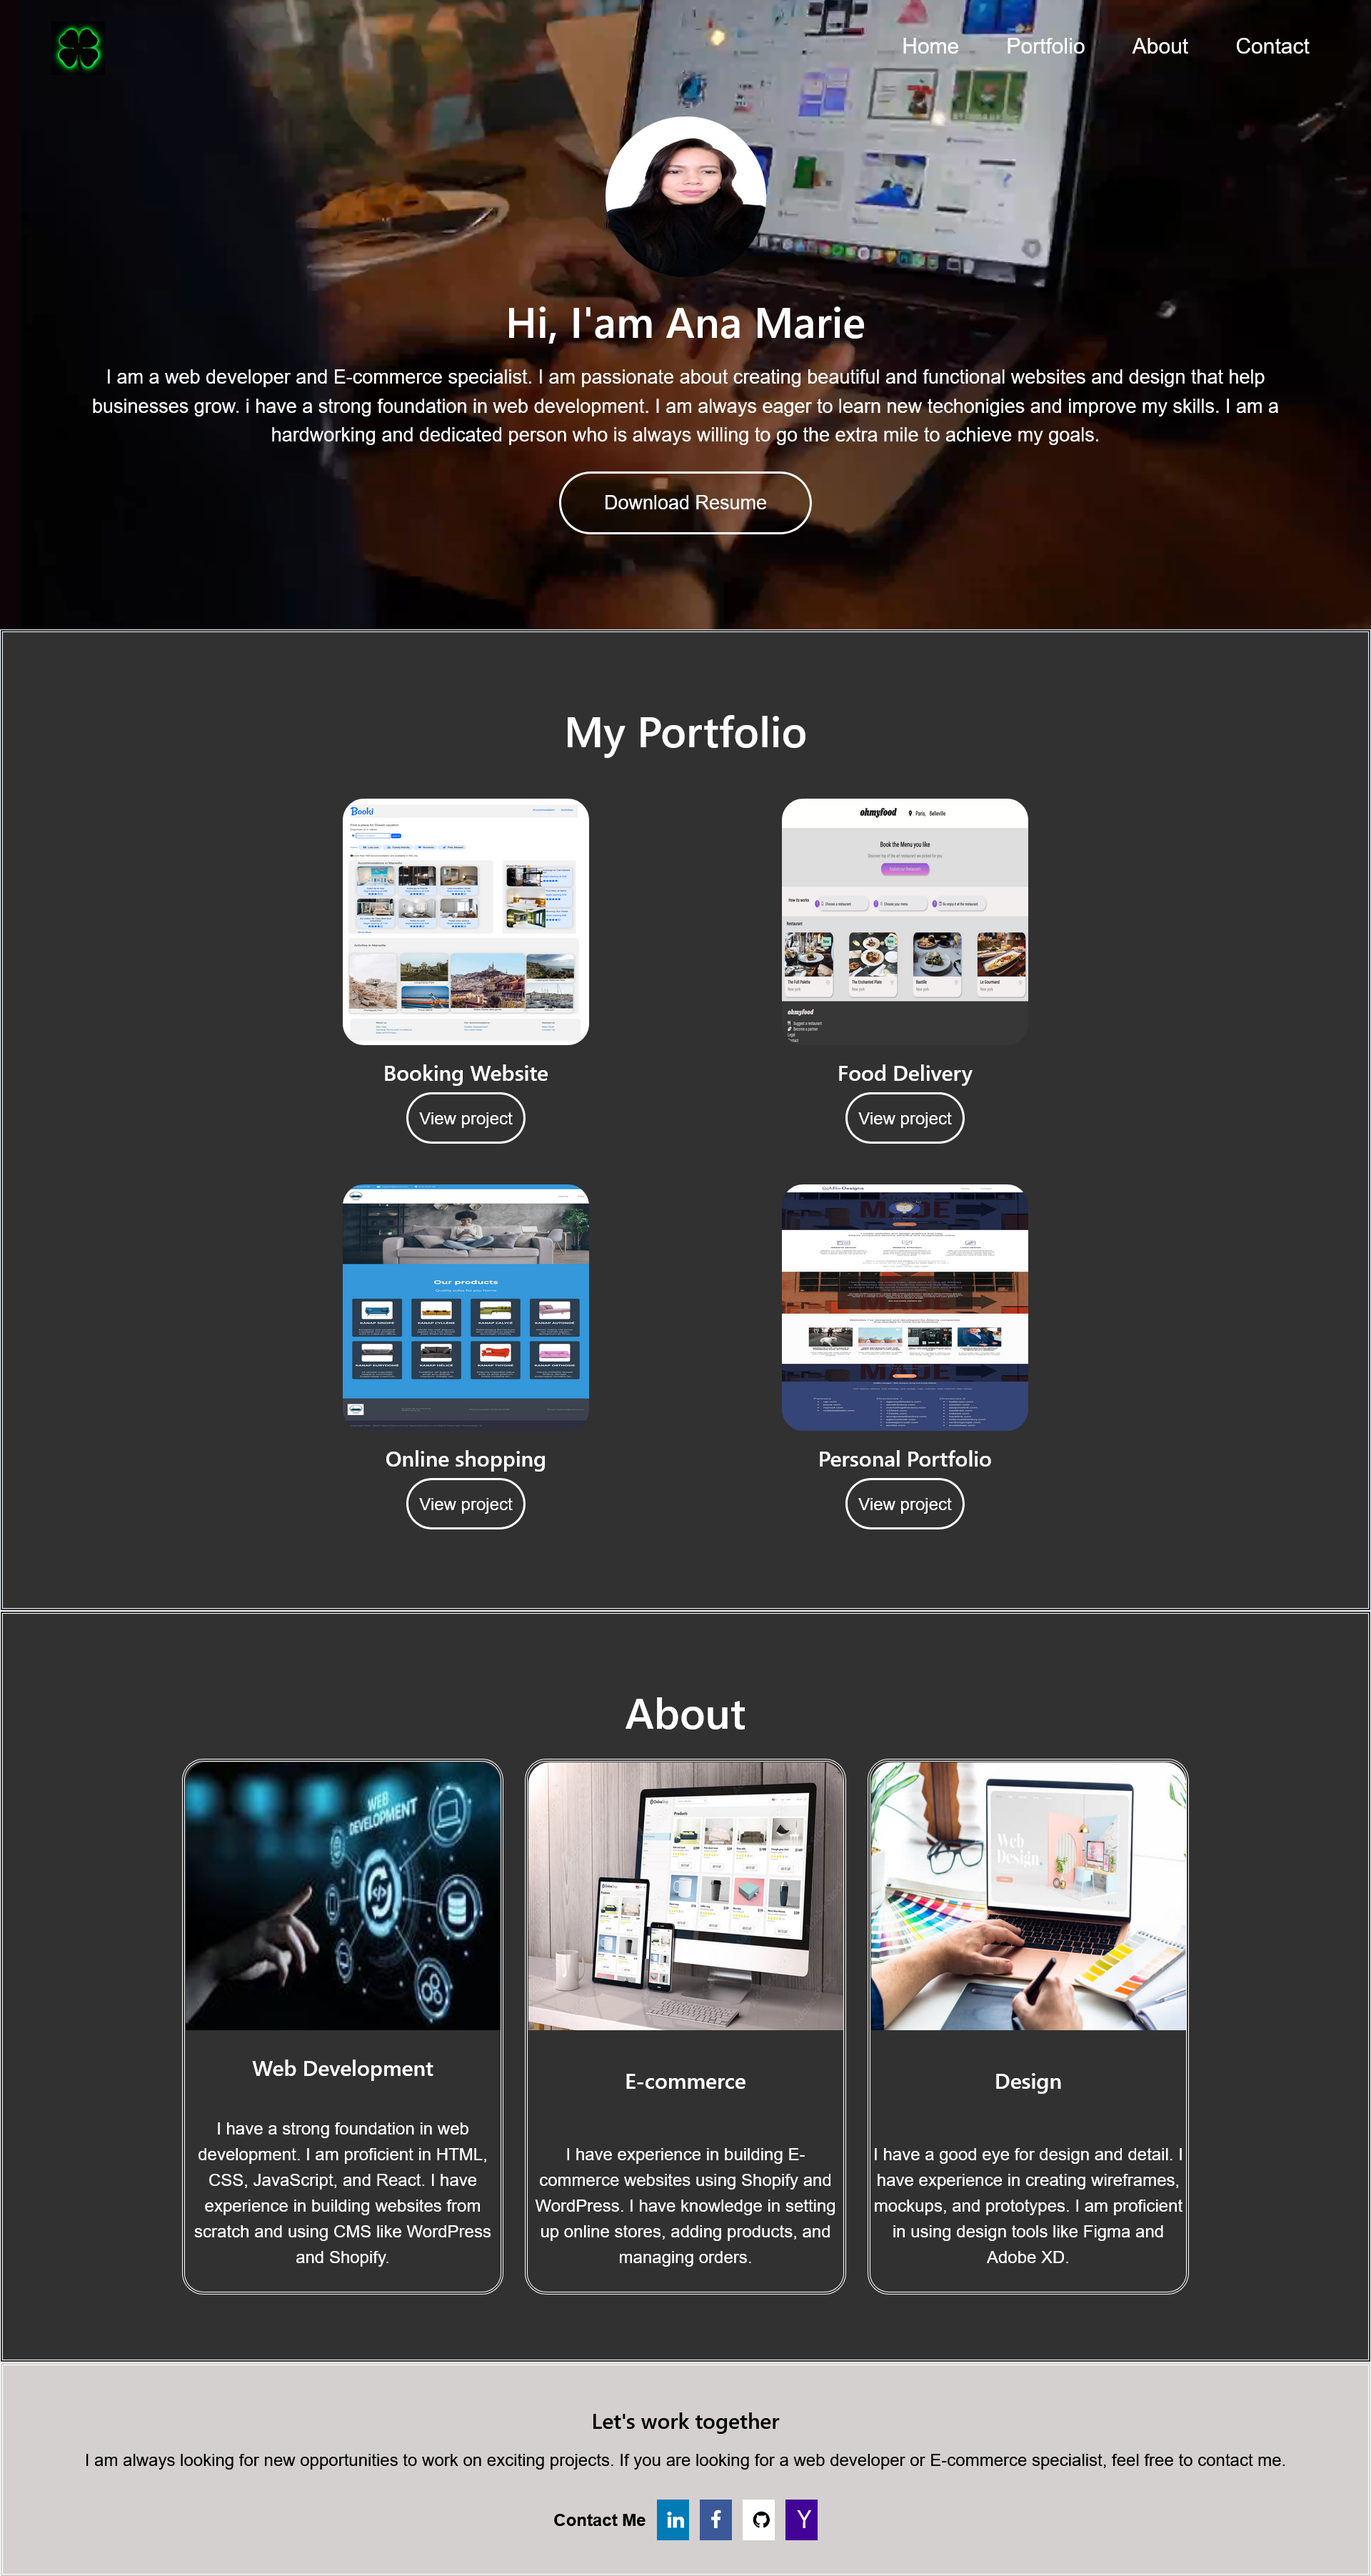
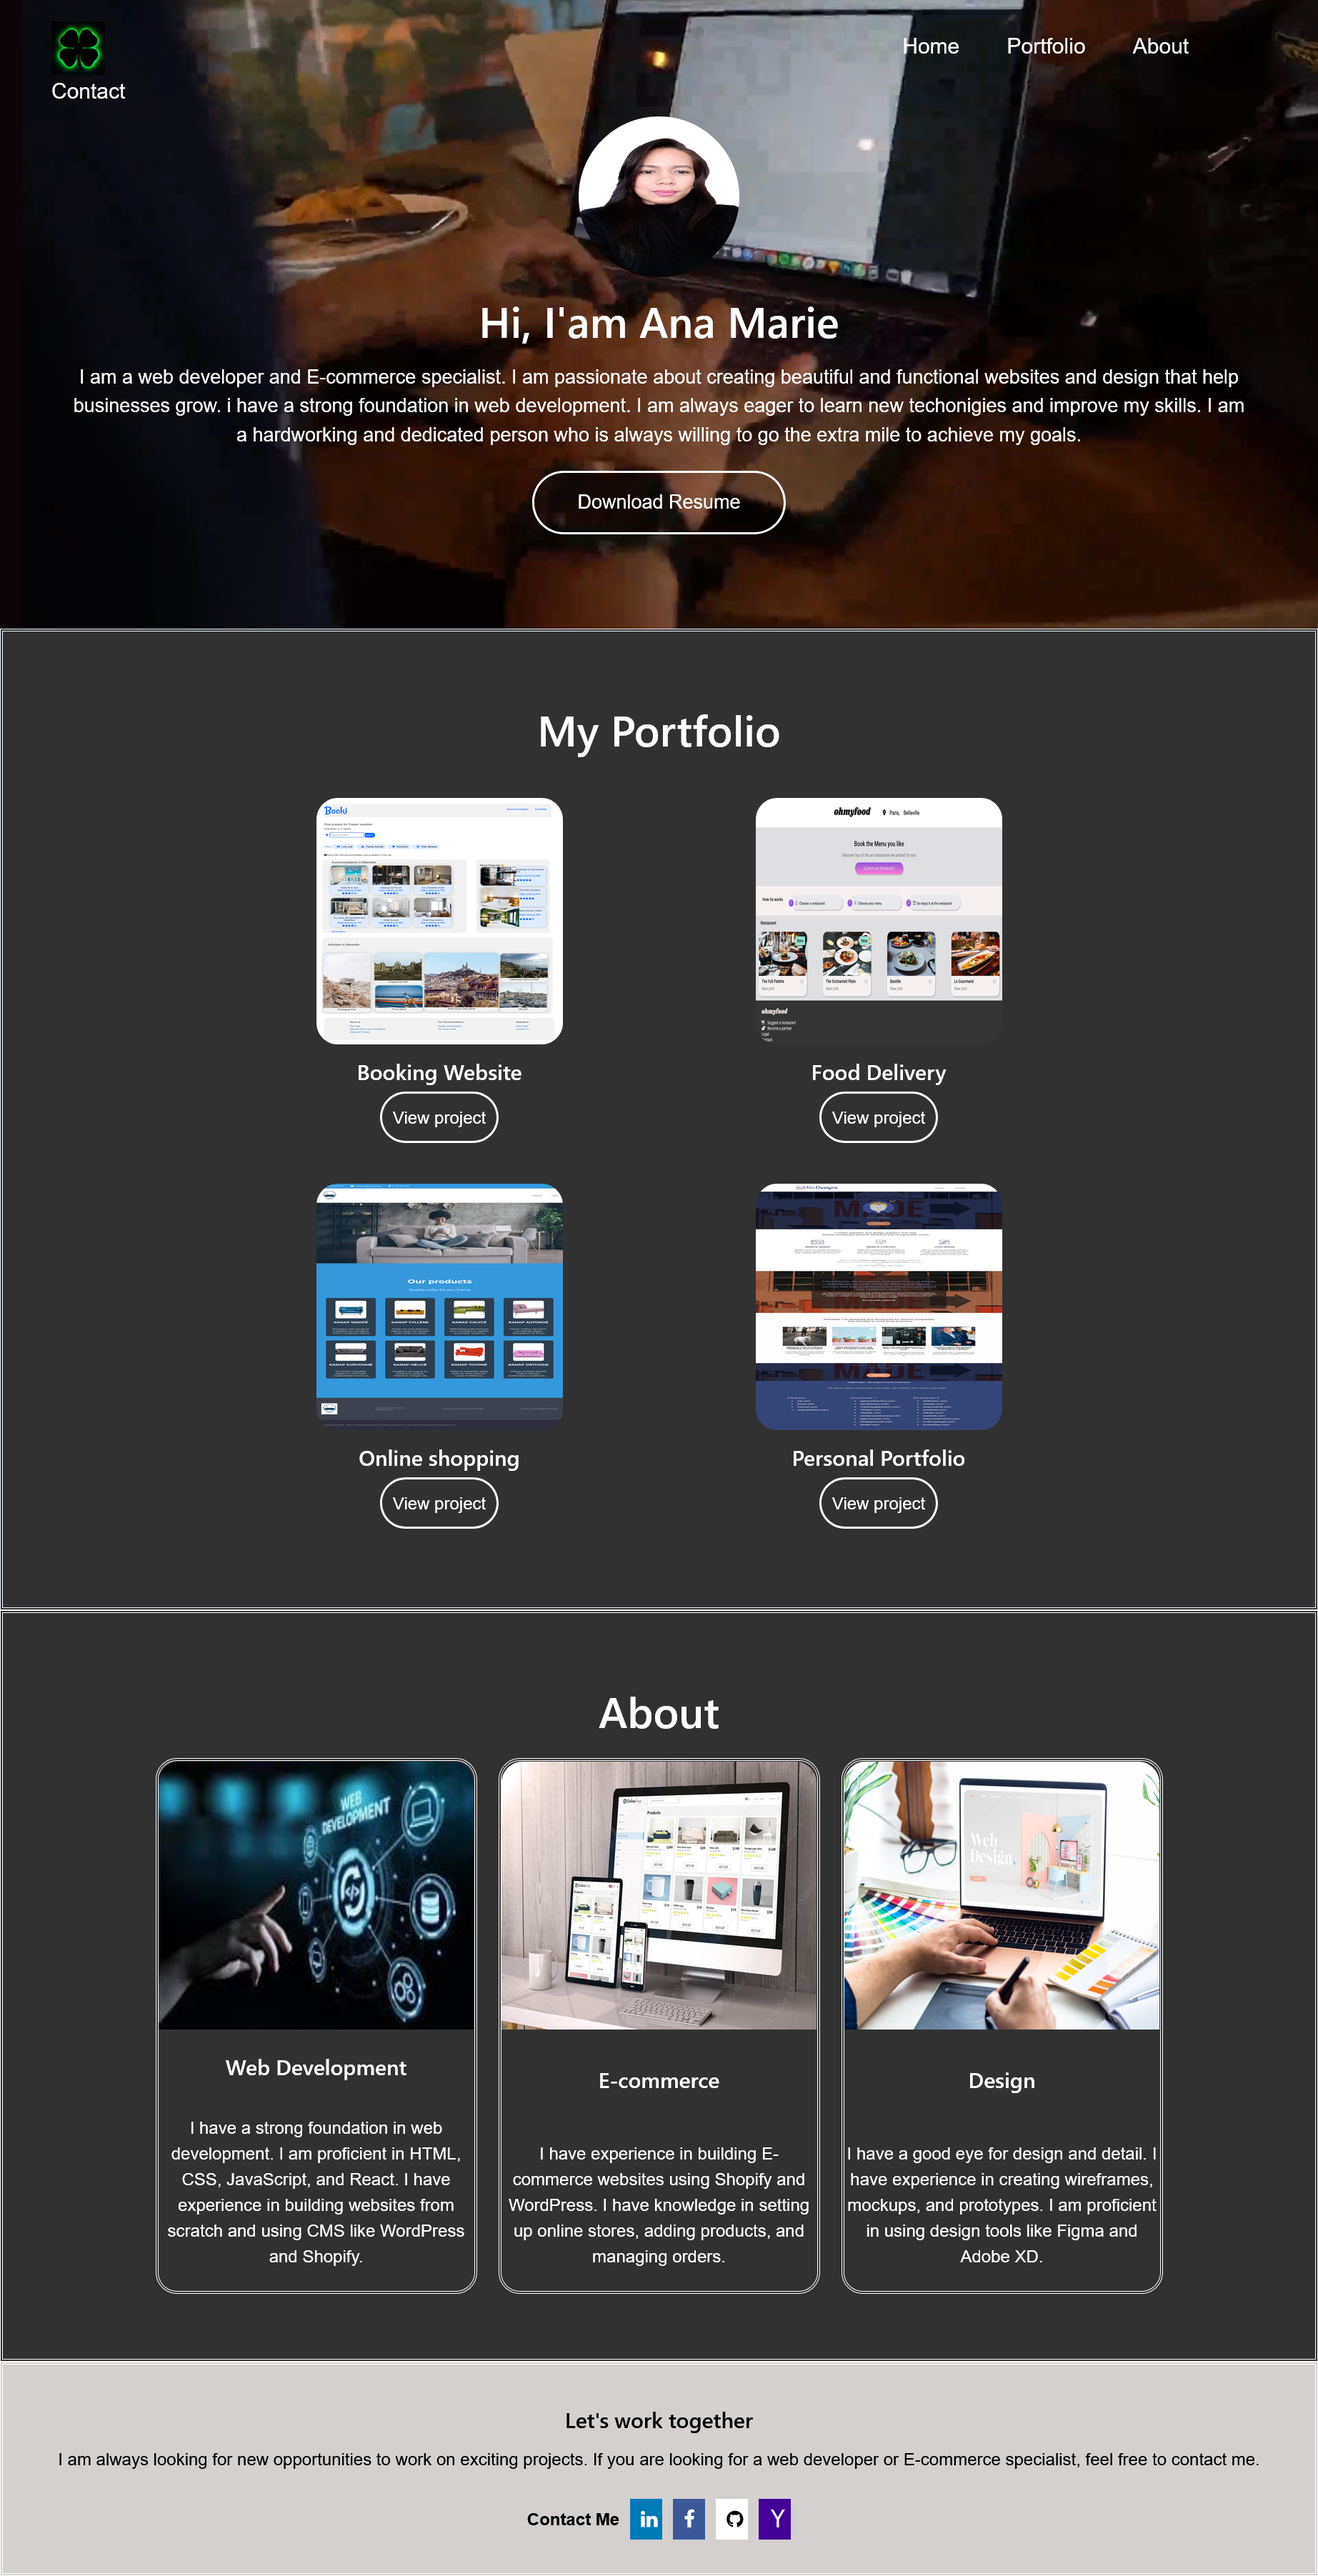
updating code

diff --git a/index.projects.html b/index.projects.html
@@ -46,13 +46,13 @@
             </li>
             <li class="project-item">
                 <p>Responsive Website</p>
-                <img src="images/multifix.png" alt="Business Project" class="project-image" data-project="images/multifix.png">
-                <a href="https://multifixsolutions.org" class="view-button" target="_blank" rel="noopener noreferrer">View Project</a>
+                <img src="images/southCoast.png" alt="Business Project" class="project-image" data-project="images/multifix.png">
+                <a href="https://shiequinn.github.io/southcoastwebsite/" class="view-button" target="_blank" rel="noopener noreferrer">View Project</a>
             </li>
             <li class="project-item">
                 <p>Portfolio</p>
-                <img src="images/newportfolio.png" alt="Portfolio Project" class="project-image" data-project="images/newportfolio.png">
-                <a href="https://ansqwebdeb.shiequinn.com" class="view-button" target="_blank" rel="noopener noreferrer">View Project</a>
+                <img src="images/Portfolio.png" alt="Portfolio Project" class="project-image" data-project="images/newportfolio.png">
+                <a href="https://shiequinn.github.io/Ana-marie-Ranoco-Porfolio/" class="view-button" target="_blank" rel="noopener noreferrer">View Project</a>
             </li>
             <li class="project-item">
                 <p>Landing Page</p>

diff --git a/index.html b/index.html
@@ -118,15 +118,15 @@
         <li class="project-item">
           <h3>Responsive Website</h3>
           <img src="images/southCoast.png" alt="Business Project" class="project-image"
-            data-project="images/multifix.png">
+            data-project="images/southCoast.png">
           <a href="https://shiequinn.github.io/southcoastwebsite/" class="view-button" target="_blank" rel="noopener noreferrer">View
             Project</a>
         </li>
         <li class="project-item">
           <h3>Portfolio</h3>
-          <img src="images/newportfolio.png" alt="Portfolio Project" class="project-image"
-            data-project="images/newportfolio.png">
-          <a href="https://ansqwebdeb.shiequinn.com" class="view-button" target="_blank" rel="noopener noreferrer">View
+          <img src="images/Portfolio.png" alt="Portfolio Project" class="project-image"
+            data-project="images/Portfolio.png">
+          <a href="https://shiequinn.github.io/Ana-marie-Ranoco-Porfolio/" class="view-button" target="_blank" rel="noopener noreferrer">View
             Project</a>
         </li>
         <li class="project-item">
